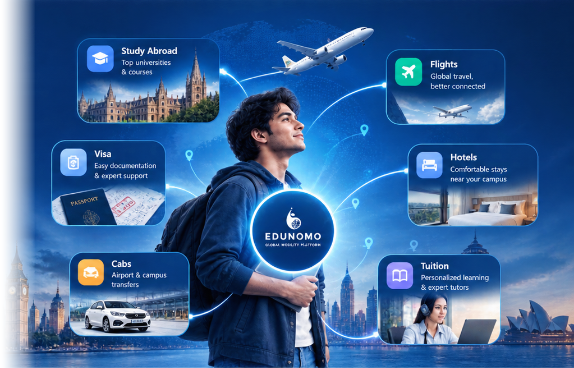
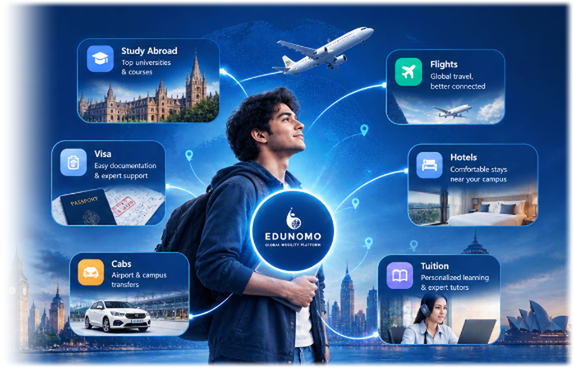
fix(hero): seamlessly integrate hero visual with matching gradient, atmospheric overlay, and edge mask

diff --git a/src/pages/Home.tsx b/src/pages/Home.tsx
@@ -148,13 +148,9 @@ export const Home: React.FC = () => {
         {/* ========================================================================= */}
         {/* 1. HERO SECTION: Multi-service Global Mobility Hero & Journey Ecosystem  */}
         {/* ========================================================================= */}
-        <section className="relative overflow-hidden bg-gradient-to-br from-[#0A1E4A] via-[#0D2A68] to-[#1E3A8A] text-white py-16 sm:py-20 lg:py-24">
-          {/* Background Glows */}
-          <div className="absolute top-0 right-0 w-[500px] h-[500px] bg-blue-500/15 rounded-full blur-3xl pointer-events-none" />
-          <div className="absolute bottom-0 left-0 w-[400px] h-[400px] bg-sky-400/10 rounded-full blur-3xl pointer-events-none" />
-
+        <section className="relative overflow-hidden bg-[#02183B] bg-gradient-to-r from-[#011638] via-[#032356] to-[#043372] text-white py-14 sm:py-18 lg:py-20">
           <div className="relative max-w-7xl mx-auto px-4 sm:px-6 lg:px-8">
-            <div className="grid grid-cols-1 lg:grid-cols-12 gap-10 lg:gap-8 items-center">
+            <div className="grid grid-cols-1 lg:grid-cols-12 gap-8 lg:gap-6 xl:gap-8 items-center">
               {/* Left Column: ~45-50% width on desktop */}
               <div className="lg:col-span-6 xl:col-span-5 space-y-6 text-left z-10">
                 {/* Category Pill */}
@@ -213,17 +209,17 @@ export const Home: React.FC = () => {
                 </div>
               </div>
 
-              {/* Right Column: Hero Journey Ecosystem Visual (~50-55% width on desktop) */}
-              <div className="lg:col-span-6 xl:col-span-7 w-full flex items-center justify-center lg:justify-end pt-6 lg:pt-0">
-                <div className="relative w-full max-w-[620px] xl:max-w-[700px] flex items-center justify-center lg:justify-end">
-                  {/* Subtle ambient lighting behind visual */}
-                  <div className="absolute top-1/2 left-1/2 -translate-x-1/2 -translate-y-1/2 w-72 sm:w-96 h-72 sm:h-96 bg-blue-500/15 rounded-full blur-3xl pointer-events-none" />
+              {/* Right Column: Seamless Journey Ecosystem Visual */}
+              <div className="lg:col-span-6 xl:col-span-7 w-full flex items-center justify-center lg:justify-end pt-6 lg:pt-0 lg:-mr-6 xl:-mr-12 2xl:-mr-20">
+                <div className="relative w-full max-w-[620px] lg:max-w-none flex items-center justify-center lg:justify-end">
+                  {/* Left atmospheric blending gradient overlay */}
+                  <div className="hidden lg:block absolute inset-y-0 left-0 w-28 xl:w-40 bg-gradient-to-r from-[#011638] via-[#011638]/60 to-transparent pointer-events-none z-20" />
 
                   <img
                     src="/assets/hero-journey-visual@2x.png"
                     srcSet="/assets/hero-journey-visual.png 1x, /assets/hero-journey-visual@2x.png 2x"
                     alt="Edunomo Global Journey Ecosystem - Education, Travel, Visa, Accommodation, Mobility, Tuition"
-                    className="relative z-10 w-full h-auto object-contain pointer-events-none drop-shadow-2xl select-none"
+                    className="relative z-10 w-full lg:w-[108%] xl:w-[114%] max-w-none h-auto object-contain pointer-events-none select-none [mask-image:linear-gradient(to_right,transparent_0%,black_16%,black_100%)] [-webkit-mask-image:linear-gradient(to_right,transparent_0%,black_16%,black_100%)]"
                     loading="eager"
                     decoding="async"
                   />
